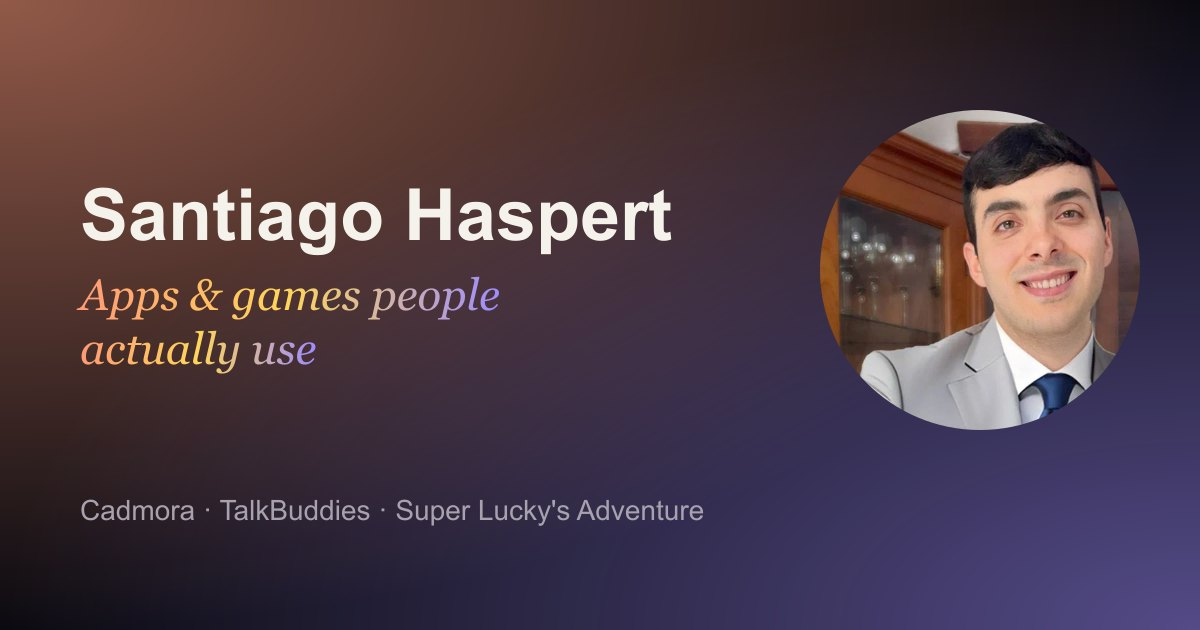
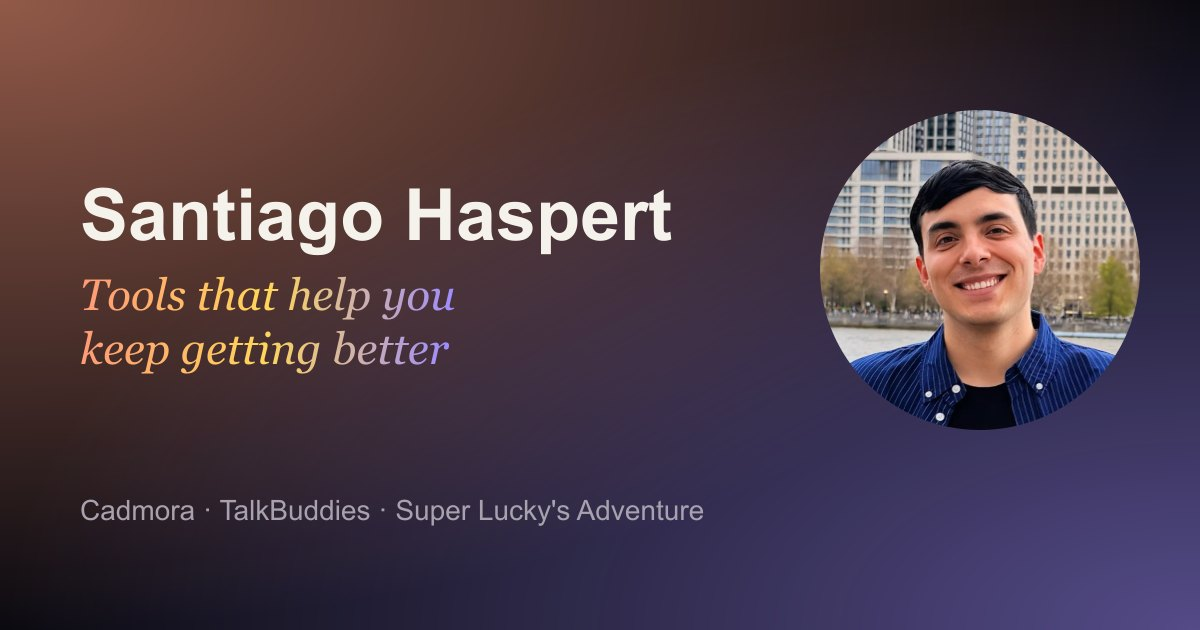
Refresh homepage narrative and portrait
New developer-focused copy (EN/ES): tools that help you keep getting
better, a lighter about section, and a new profile photo and share image.

Changed region(s): [[0.6783, 0.1508, 0.9558, 0.6937], [0.0617, 0.4222, 0.4317, 0.6032]]

diff --git a/index.html b/index.html
@@ -4,12 +4,12 @@
   <meta charset="UTF-8">
   <meta name="viewport" content="width=device-width, initial-scale=1">
   <title>Santiago Haspert — Apps &amp; games</title>
-  <meta name="description" content="Santiago Haspert builds language-learning apps and games for iPhone and Android: Cadmora, TalkBuddies and Super Lucky's Adventure.">
+  <meta name="description" content="Indie developer building tools that help you keep getting better — Cadmora, TalkBuddies — and a very fun game, Super Lucky's Adventure.">
   <meta name="theme-color" content="#0b0a10">
   <link rel="canonical" href="https://santiagohaspert.com/">
   <meta property="og:type" content="website">
   <meta property="og:title" content="Santiago Haspert — Apps & games">
-  <meta property="og:description" content="Founder and indie developer behind Cadmora, TalkBuddies and Super Lucky's Adventure.">
+  <meta property="og:description" content="Tools that help you keep getting better: Cadmora, TalkBuddies and Super Lucky's Adventure.">
   <meta property="og:url" content="https://santiagohaspert.com/">
   <meta property="og:image" content="https://santiagohaspert.com/assets/img/og.jpg">
   <meta name="twitter:card" content="summary_large_image">
@@ -48,13 +48,13 @@
     <!-- HERO -->
     <section class="hero">
       <div class="hero-copy">
-        <p class="eyebrow reveal"><span class="dot"></span><span data-i18n="hero.eyebrow">Founder · Indie developer</span></p>
+        <p class="eyebrow reveal"><span class="dot"></span><span data-i18n="hero.eyebrow">Indie developer</span></p>
         <h1 class="hero-title">
-          <span class="line"><span data-i18n="hero.l1">I build apps</span></span>
-          <span class="line"><span data-i18n="hero.l2">and games that</span></span>
-          <span class="line"><em data-i18n="hero.l3">people actually use.</em></span>
+          <span class="line"><span data-i18n="hero.l1">I build tools</span></span>
+          <span class="line"><span data-i18n="hero.l2">that help you</span></span>
+          <span class="line"><em data-i18n="hero.l3">keep getting better.</em></span>
         </h1>
-        <p class="lead reveal" data-i18n="hero.lead">I'm Santiago — I design, code and launch my own products for iPhone and Android: AI tools to learn languages by speaking, and a pixel-art platformer starring a very brave Chihuahua.</p>
+        <p class="lead reveal" data-i18n="hero.lead">Apps that give you what you need to learn, practise and take on your next challenge — plus, just for fun, a platformer starring a very brave Chihuahua.</p>
         <div class="hero-ctas reveal">
           <a class="btn btn-primary" href="#projects"><span data-i18n="hero.cta1">Explore my projects</span><svg viewBox="0 0 24 24" aria-hidden="true"><path d="M12 5v14m0 0-6-6m6 6 6-6"/></svg></a>
           <a class="btn btn-ghost" href="https://instagram.com/santiagohaspert" target="_blank" rel="noopener"><svg viewBox="0 0 24 24" aria-hidden="true"><rect x="3" y="3" width="18" height="18" rx="5"/><circle cx="12" cy="12" r="4"/><circle cx="17.5" cy="6.5" r=".6" fill="currentColor"/></svg>@santiagohaspert</a>
@@ -87,7 +87,7 @@
     <section class="section" id="projects">
       <div class="section-head reveal">
         <p class="kicker" data-i18n="projects.kicker">Selected work</p>
-        <h2 data-i18n-html="projects.title">Three products. <em>One obsession:</em> making things people love to open.</h2>
+        <h2 data-i18n-html="projects.title">Things I've <em>shipped.</em></h2>
       </div>
 
       <!-- Cadmora -->
@@ -181,9 +181,9 @@
       <div class="about-grid">
         <div class="about-copy reveal">
           <p class="kicker" data-i18n="about.kicker">About me</p>
-          <h2 data-i18n-html="about.title">From law books <em>to product launches.</em></h2>
-          <p data-i18n="about.p1">I trained and worked as a lawyer in Argentina. Along the way I realised what I enjoyed most was building things — so I taught myself to design and code, and today I create my own products end to end.</p>
-          <p data-i18n="about.p2">I care about the whole journey: the idea, the interface, the code, the launch on the App Store and Google Play, and everything I learn from the people who use it. I live between Spanish and English, which is why so much of my work is about languages.</p>
+          <h2 data-i18n-html="about.title">Hi, I'm <em>Santiago.</em></h2>
+          <p data-i18n="about.p1">I love learning, and I love building things that make learning easier. The tools I wish I'd had a few years ago are now part of my app catalogue: I built them for myself first, then polished them for everyone else.</p>
+          <p data-i18n="about.p2">I take care of the whole journey: the idea, the design, the code, the launch and everything that comes after.</p>
         </div>
         <ul class="pillars">
           <li class="pillar reveal">
@@ -210,7 +210,7 @@
       <div class="contact-card reveal">
         <p class="kicker" data-i18n="contact.kicker">Let's talk</p>
         <h2 data-i18n-html="contact.title">Follow the journey <em>or say hi.</em></h2>
-        <p class="lead" data-i18n="contact.lead">I share what I'm building, new launches and behind-the-scenes on Instagram. For collaborations or press, write to me.</p>
+        <p class="lead" data-i18n="contact.lead">Got an idea, feedback or a high score to brag about? I share new launches and behind-the-scenes on Instagram — or just write to me.</p>
         <div class="socials">
           <a class="social" href="https://instagram.com/santiagohaspert" target="_blank" rel="noopener">
             <svg viewBox="0 0 24 24" aria-hidden="true"><rect x="3" y="3" width="18" height="18" rx="5"/><circle cx="12" cy="12" r="4"/><circle cx="17.5" cy="6.5" r=".6" fill="currentColor"/></svg>

diff --git a/assets/js/es-home.js b/assets/js/es-home.js
@@ -1,16 +1,16 @@
 window.I18N_ES = {
   'meta.title': 'Santiago Haspert — Apps y juegos',
-  'meta.description': 'Santiago Haspert crea apps para aprender idiomas y videojuegos para iPhone y Android: Cadmora, TalkBuddies y Super Lucky\'s Adventure.',
+  'meta.description': 'Desarrollador indie: herramientas para que sigas mejorando (Cadmora, TalkBuddies) y un juego muy divertido, Super Lucky\'s Adventure.',
   'skip': 'Ir al contenido',
   'nav.projects': 'Proyectos',
   'nav.about': 'Sobre mí',
   'nav.contact': 'Contacto',
 
-  'hero.eyebrow': 'Fundador · Desarrollador indie',
-  'hero.l1': 'Creo apps',
-  'hero.l2': 'y juegos que',
-  'hero.l3': 'la gente usa de verdad.',
-  'hero.lead': 'Soy Santiago: diseño, programo y lanzo mis propios productos para iPhone y Android. Herramientas con IA para aprender idiomas hablando, y un plataformero pixel art protagonizado por un Chihuahua muy valiente.',
+  'hero.eyebrow': 'Desarrollador indie',
+  'hero.l1': 'Creo herramientas',
+  'hero.l2': 'que te ayudan a',
+  'hero.l3': 'seguir mejorando.',
+  'hero.lead': 'Apps que te dan lo que necesitás para aprender, practicar y superar tu próximo desafío. Y, para relajar, un plataformero protagonizado por un Chihuahua muy valiente.',
   'hero.cta1': 'Conocé mis proyectos',
   'hero.badge': '3 productos para iOS y Android',
 
@@ -18,7 +18,7 @@ window.I18N_ES = {
   'marquee.games': 'Juegos indie',
 
   'projects.kicker': 'Proyectos',
-  'projects.title': 'Tres productos. <em>Una obsesión:</em> crear cosas que den ganas de abrir.',
+  'projects.title': 'Cosas que <em>lancé.</em>',
 
   'cta.download': 'Descargar la app',
   'cta.website': 'Ver sitio web',
@@ -44,9 +44,9 @@ window.I18N_ES = {
   'sla.c3': 'Soporte para mando',
 
   'about.kicker': 'Sobre mí',
-  'about.title': 'De los códigos legales <em>al código de verdad.</em>',
-  'about.p1': 'Me formé y trabajé como abogado en Argentina. En el camino descubrí que lo que más disfrutaba era construir cosas, así que aprendí por mi cuenta a diseñar y programar, y hoy creo mis propios productos de punta a punta.',
-  'about.p2': 'Me importa todo el recorrido: la idea, la interfaz, el código, el lanzamiento en App Store y Google Play, y todo lo que aprendo de quienes los usan. Vivo entre el español y el inglés, por eso gran parte de mi trabajo gira en torno a los idiomas.',
+  'about.title': 'Hola, soy <em>Santiago.</em>',
+  'about.p1': 'Me encanta aprender, y me encanta crear cosas que lo hagan más fácil. Las herramientas que me hubiera gustado tener hace unos años hoy forman parte de mi catálogo de apps: primero las hice para mí y después las pulí para todos.',
+  'about.p2': 'Me encargo de todo el recorrido: la idea, el diseño, el código, el lanzamiento y todo lo que viene después.',
   'pillar.1.t': 'Producto y diseño',
   'pillar.1.d': 'Del primer boceto a una interfaz pulida que da gusto usar todos los días.',
   'pillar.2.t': 'Ingeniería',
@@ -56,6 +56,6 @@ window.I18N_ES = {
 
   'contact.kicker': 'Hablemos',
   'contact.title': 'Seguí el proceso <em>o escribime.</em>',
-  'contact.lead': 'En Instagram comparto lo que estoy construyendo, los nuevos lanzamientos y el detrás de escena. Para colaboraciones o prensa, escribime.',
+  'contact.lead': '¿Tenés una idea, feedback o un récord para presumir? En Instagram comparto lanzamientos y el detrás de escena, o escribime directamente.',
   'contact.email': 'Escribime'
 };
